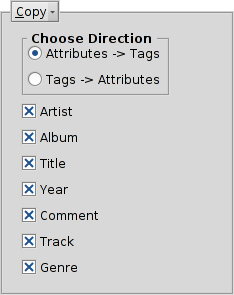
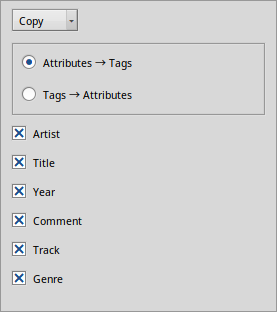
Update documentation (#71)
* Update screenshots.
* Remove "ID3" and just write "Tags", because there are also APE tags.
* Add description of MPEG mode.
* Replace "Apply" with "Save" button.

Changed region(s): [[0.0, 0.0, 1.0, 1.0]]

diff --git a/documentation/armyknife/readme.html b/documentation/armyknife/readme.html
@@ -44,20 +44,20 @@ h2 {
 <body>
 
 <h1><img width="64" height="64" src="./images/armyknife-icon_64.png" alt="ArmyKnife Icon" />ArmyKnife</h1>
-<p>ArmyKnife is a powerful tool to perform ID3-Tag to Attribute assignment, Attribute to ID3-Tag assignment, parsing of filenames to fill attributes, and renaming files based on their attributes. It also includes an editor that lets you work with multiple files at once. It supports MP3, Ogg Vorbis and FLAC format.</p>
-<p>Note, that to use Haiku's fast queries, the attributes have to be filled. On the other hand, to be useful on other platforms and stand alone players, the ID3 tags should be filled. Therefore, it's best to keep both in sync.</p>
-<p>You start either by selecting your files and invoking the context menu <i><b>Open With...</b></i> and choose <i><b>ArmyKnife</b></i> or simply start ArmyKnife and add files via drag&amp;drop. This is ArmyKnife's window, the opened files in a list to the right and controls to the left, depending on the selected mode:</p>
+<p>ArmyKnife is a powerful tool to perform Tag to Attribute assignment, Attribute to Tag assignment, parsing of filenames to fill attributes, and renaming files based on their attributes. It also includes an editor that lets you work with multiple files at once. It supports MP3, Ogg Vorbis and FLAC format.</p>
+<p>Note, that to use Haiku's fast queries, the attributes have to be filled. On the other hand, to be useful on other platforms and stand alone players, the tags should be filled. Therefore, it's best to keep both in sync.</p>
+<p>You start either by selecting your files and invoking Tracker's context menu <i><b>Open with...</b></i> and choose <i><b>ArmyKnife</b></i> or simply start ArmyKnife and add files via drag&amp;drop. This is ArmyKnife's window, the opened files in a list to the right and controls to the left, depending on the selected mode:</p>
 <img src="./images/armyknife.png" alt="ArmyKnife window" />
-<p>There are three modes of operation, selected with the drop-down menu on top or switched with <span class="key">ALT</span>&#160;<span class="key">&larr;</span>/<span class="key">&rarr;</span>:</p>
+<p>There are four modes of operation, selected with the drop-down menu on top or switched with <span class="key">ALT</span>&#160;<span class="key">&larr;</span>/<span class="key">&rarr;</span>:</p>
 
 <h2>Edit Mode</h2>
-<table summary="Edit Mode"><tr>
-	<td valign="top"><img width="234" height="354" src="./images/armyknife-edit.png" alt="Edit Mode" /></td>
+<table summary="Edit mode"><tr>
+	<td valign="top"><img width="277" height="421" src="./images/armyknife-edit.png" alt="Edit mode" /></td>
 	<td width="30"></td>
-	<td valign="top"><p>At the top, you decide if you'd like to see and edit the Haiku attributes of the files or their ID3-Tags. The checkbox below decides if your changes will also apply to the respective other.<br />
-Below are the different attributes/tags and their contents. If you can't see anything, neither in Attributes-mode nor in Tags-mode, you either haven't selected any files from the list or there really is no information available. In that case you may want to switch to <i><b>Name Mode</b></i> to salvage what's available from the filenames.</p>
-<p>All changes only affect the selected files and only after pressing <i><b>Apply</b></i>, which is the default when pressing <span class="key">ENTER</span>. Also, only the checkmarked attributes/tags will be written to these files.</p>
-<p>The "Genre" field is a bit of a special case: If you choose to set a custom genre, only Haiku attributes will contain your text. ID3-Tags only show standard genres and will fall back to "Other".</p>
+	<td valign="top"><p>At the top, you decide if you'd like to see and edit the Haiku attributes of the files or their tags. The checkbox below decides if your changes will also apply to the respective other.<br />
+Below are the different attributes/tags and their contents. If you can't see anything, neither in Attributes-mode nor in Tags-mode, you either haven't selected any files from the list or there really is no information available. In that case you may want to switch to <i><b>Name mode</b></i> to salvage what's available from the filenames.</p>
+<p>All changes only affect the selected files and only after clicking <i><b>Save</b></i>, which is the default when pressing <span class="key">ENTER</span>. Also, only the checkmarked attributes/tags will be written to these files.</p>
+<p>The "Genre" field is a bit of a special case: If you choose to set a custom genre, only Haiku attributes will contain your text. Tags only show standard genres and will fall back to "Other".</p>
 <p>There's some convenient keyboard navigation when you have to edit a tag of single files, e.g. "Title" and "Track" of an album. The cursor can stay in the respective tag's text box while you select a new file with keyboard shortcuts:</p>
 	<table summary="Keyboard navigation" cellpadding="0">
 	<tr><td width="100"><span class="key">ALT</span>&#160;<span class="key">HOME</span></td><td>First file</td></tr>
@@ -67,29 +67,38 @@ Below are the different attributes/tags and their contents. If you can't see any
 	</table></td>
 </tr></table>
 
-<h2>Copy Mode</h2>
-<table summary="Copy Mode"><tr>
-	<td valign="top"><img width="234" height="295" src="./images/armyknife-copy.png" alt="Copy Mode" /></td>
+<h2>Copy mode</h2>
+<table summary="Copy mode"><tr>
+	<td valign="top"><img width="277" height="312" src="./images/armyknife-copy.png" alt="Copy mode" /></td>
 	<td width="30"></td>
 	<td valign="top"><p>You can copy the checkmarked fields either from <i><b>Attributes&#160;&rarr;&#160;Tags</b></i> or <i><b>Tags&#160;&rarr;&#160;Attributes</b></i>.</p>
-<p>Make sure you've got the direction right or you'll accidentally copy empty attributes over perfectly filled ID3-Tags! Better switch quickly over to the Edit mode to have another look...</p>
-<p>Again, changes take only effect on selected files after pressing <i><b>Apply</b></i>.</p></td>
+<p>Make sure you've got the direction right or you'll accidentally copy empty attributes over perfectly filled Tags! Better switch quickly over to the Edit mode to have another look...</p>
+<p>Again, changes take only effect on selected files after clicking <i><b>Save</b></i>.</p></td>
 </tr></table>
 
-<h2>Name Mode</h2>
-<table summary="Name Mode"><tr>
-	<td valign="top"><img width="234" height="295" src="./images/armyknife-name.png" alt="Name Mode" /></td>
+<h2>Name mode</h2>
+<table summary="Name mode"><tr>
+	<td valign="top"><img width="277" height="326" src="./images/armyknife-name.png" alt="Name mode" /></td>
 	<td width="30"></td>
 	<td valign="top"><p>You can either rename all selected files according to their attributes (<i><b>Attributes&#160;&rarr;&#160;Name</b></i>) or, conversely, fill attributes according to the filename (<i><b>Name&#160;&rarr;&#160;Attributes</b></i>).<br />
 As with the Copy mode, make sure the direction is right!</p>
-<p>The filename is analyzed/build with a pattern, selected from the <i><b>Filename</b></i> drop-down menu. Above it is a legend describing what abbreviation corresponds to what attribute. <i><b>\*</b></i> is a wildcard you can use for parts that shouldn't go in any attribute. Of course, you can define your own pattern by choosing <i><b>New..</b></i> from there.</p>
-<p>As usual, again changes take only effect on selected files after pressing <i><b>Apply</b></i>.</p></td>
+<p>The filename is analyzed/build with a pattern, selected from the <i><b>Filename</b></i> drop-down menu. Above it is a legend describing what abbreviation corresponds to what attribute. <i><b>\*</b></i> is a wildcard you can use for parts that shouldn't go in any attribute. Of course, you can define your own pattern by choosing <i><b>New...</b></i> from there.</p>
+<p>As usual, again changes take only effect on selected files after clicking <i><b>Save</b></i>.</p></td>
 </tr></table>
+
+<h2>MPEG mode</h2>
+<table summary="MPEG mode"><tr>
+	<td valign="top"><img width="277" height="375" src="./images/armyknife-mpeg.png" alt="MPEG mode" /></td>
+	<td width="30"></td>
+	<td valign="top"><p>This mode shows if the selected files have any tags set. You can also add or remove specific tags that you choose with the checkmarks at the bottom.</p>
+<p>The changes take effect on selected files after clicking <i><b>Save</b></i>.</p></td>
+</tr></table>
+
 <p><br /><br /></p>
 
 <h3>Bugs? Feature Requests?</h3>
-Check out the <a href="https://github.com/HaikuArchives/ArmyKnife">ArmyKnife project page</a> at <a href="https://github.com/HaikuArchives">HaikuArchives on Github</a> first, and if it
-hasn't already been submitted, <a href="https://github.com/HaikuArchives/ArmyKnife/issues/new">submit</a> it!
+Check out the <a href="https://github.com/HaikuArchives/ArmyKnife">ArmyKnife project page</a> at <a href="https://github.com/HaikuArchives">HaikuArchives on Github</a> first, and if your bug or feature request
+hasn't already been filed, <a href="https://github.com/HaikuArchives/ArmyKnife/issues/new">submit</a> it!
 <br />
 <br />
 <b><h3>Thanks:</h3></b>
@@ -106,7 +115,7 @@ Jonas Sundström and Ryan Leavengood for keeping ArmyKnife working in the transi
 Haiku for the new Operating System.<br />
 All of the people who have worked on Haiku since 2001 to make Haiku what it is now.<br />
 HaikuPorts for helping to automate building and packaging of thousands of packages for Haiku including this one.<br />
-HaikuArchives for giving us a place to keep old BeOS programs upto date<br />
+HaikuArchives for giving us a place to keep old BeOS programs uptodate<br />
 Taglib and MusicBrainz for their nifty open source libraries<br />
 The Google Code-In students who completed several small tasks for ArmyKnife from 2012-2020<br />
 <br />
